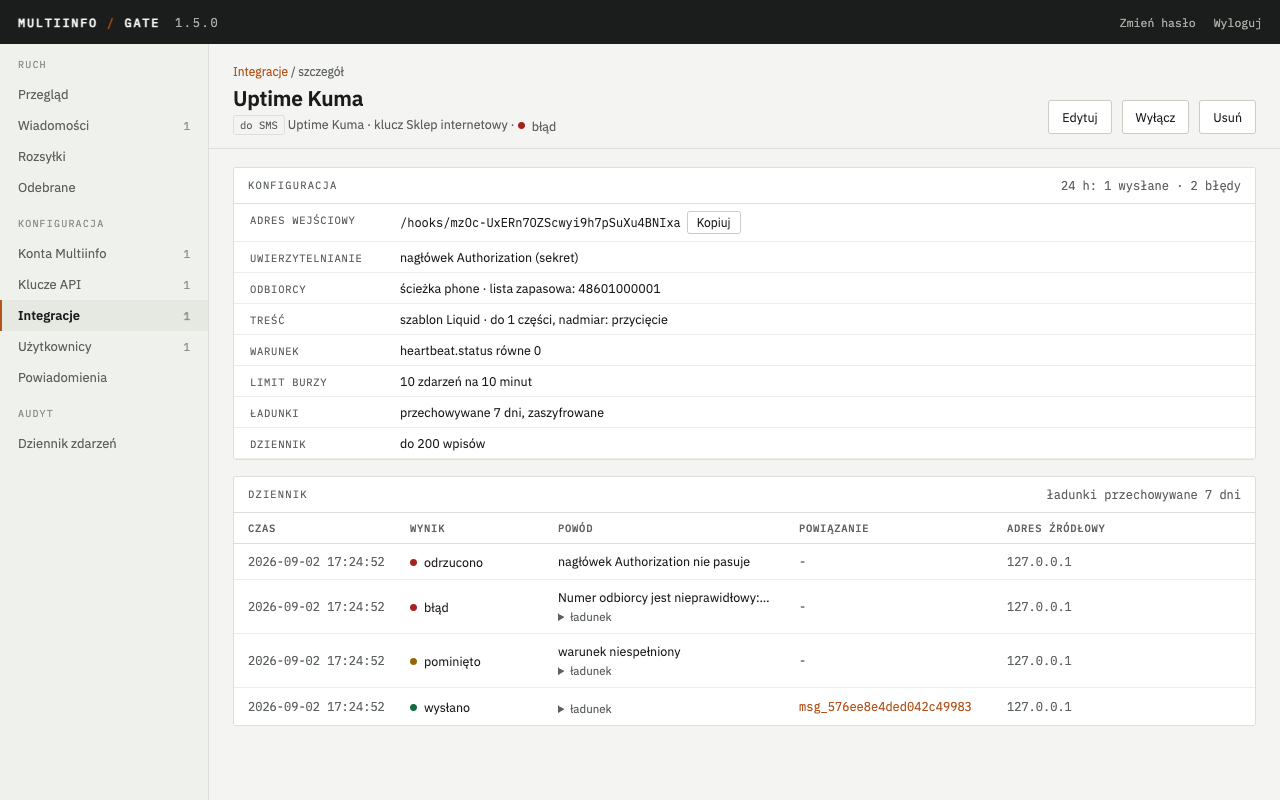
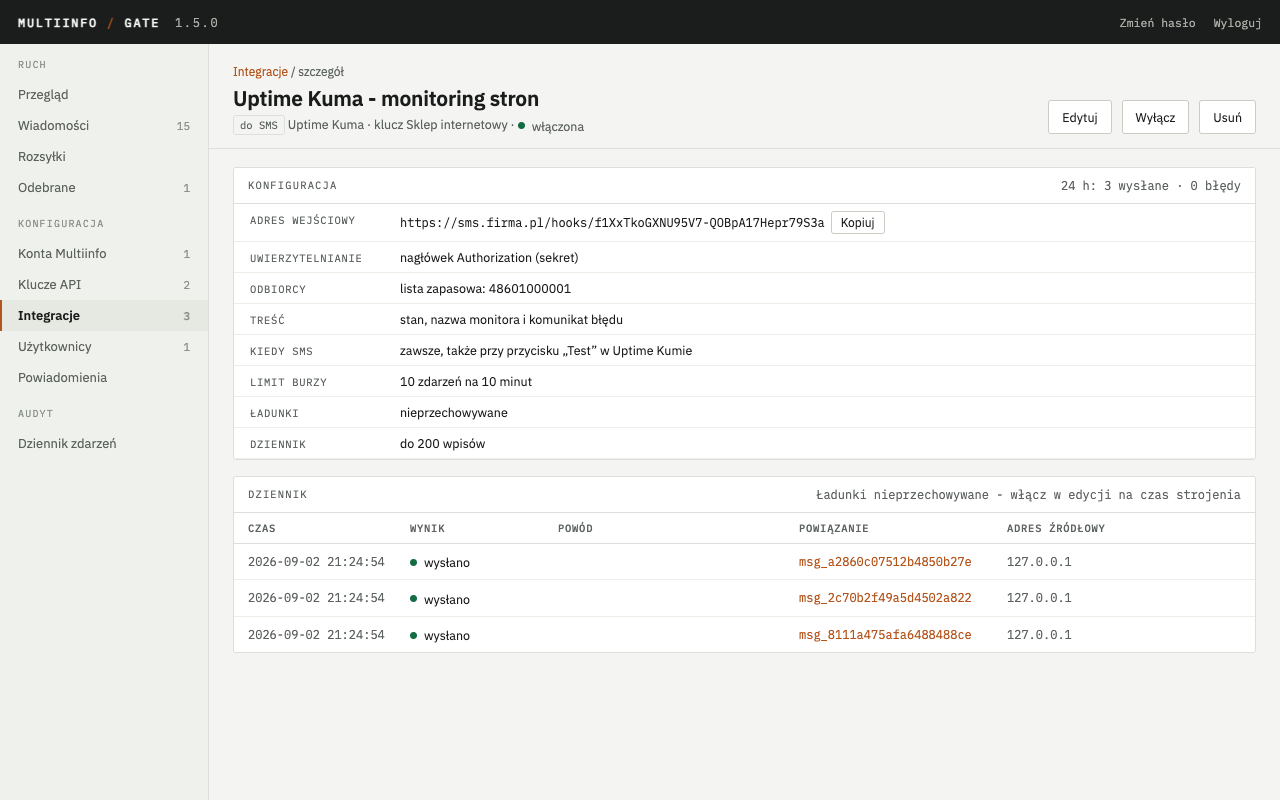
docs(integracje): tryb prosty i adres bramki w rozdziale 2, nowe zrzuty ekranu; instrukcje ustawień tylko po stronie aplikacji; etykiety wyboru w zwykłym kroju

diff --git a/src/admin/views/integration-simple.ts b/src/admin/views/integration-simple.ts
@@ -13,9 +13,9 @@ export interface SimplePageOptions {
   textPreviews: Record<string, string>;
 }
 
-const radio = (name: string, value: string, current: string, label: string, hint = '') =>
+const radio = (name: string, value: string, current: string, label: string, hint = '', mono = false) =>
   `<label class="choice" style="align-items: flex-start;"><input type="radio" name="${esc(name)}" value="${esc(value)}"${current === value ? ' checked' : ''} style="margin-top: 3px;">
-    <span>${esc(label)}${hint === '' ? '' : `<span class="dim" style="display: block; font-size: 11.5px;">${esc(hint)}</span>`}</span></label>`;
+    <span>${mono ? `<span class="m">${esc(label)}</span>` : esc(label)}${hint === '' ? '' : `<span class="dim" style="display: block; font-size: 11.5px; margin-top: 2px;">${esc(hint)}</span>`}</span></label>`;
 
 /** Przełącznik trybu: odnośniki GET, bo zmiana trybu rysuje inny formularz z tych samych zapisanych danych. */
 export function modeSwitch(ctx: FormContext, mode: 'prosty' | 'zaawansowany'): string {
@@ -66,7 +66,7 @@ function inboundSections(ctx: FormContext, sv: SimpleValues, opts: SimplePageOpt
       <div class="hint">${esc(simple.recipients.note)} Jeden numer na linię; dziewięć cyfr dostaje kod kraju konta.</div>
     </div>`;
   const when = simple.when.map((w) => radio('whenId', w.id, sv.whenId, w.label)).join('');
-  const texts = simple.text.map((t) => radio('textId', t.id, sv.textId, opts.textPreviews[t.id] ?? '', t.label)).join('');
+  const texts = simple.text.map((t) => radio('textId', t.id, sv.textId, opts.textPreviews[t.id] ?? '', t.label, true)).join('');
   const auth = simple.auth.kind === 'none'
     ? `<div class="field"><label>Zabezpieczenie</label><div class="hint" style="margin-top: 0;">${esc(simple.auth.note)}</div></div>`
     : secretField(ctx, simple.auth.label, simple.auth.where);

diff --git a/src/integrations/presets/grafana.ts b/src/integrations/presets/grafana.ts
@@ -64,8 +64,8 @@ export const grafana: Preset = {
     },
   },
   guide: [
-    'W Grafanie **Alerting → Contact points → Add contact point**, integracja **Webhook**. **URL** to adres wejściowy integracji, **HTTP Method** `POST`, **Basic Authentication** z loginem `grafana` i hasłem z bramki. Numer odbiorcy wpisz w bramce w liście zapasowej.',
+    'W Grafanie **Alerting → Contact points → Add contact point**, integracja **Webhook**. **URL** to adres wejściowy integracji, **HTTP Method** `POST`, **Basic Authentication** z loginem `grafana` i hasłem z bramki. Potem przypisz punkt kontaktu w **Notification policies** (polityka domyślna albo osobna dla wybranych alertów).',
     '',
-    'Grafana wysyła jedno żądanie na grupę alertów; szablon wypisuje do trzech nazw i liczbę pozostałych. Klucz grupy (`groupKey`) jest stały dla grupy, więc nie nadaje się na identyfikator zdarzenia - bramka nie odrzucałaby powtórek, tylko każdy kolejny alert tej grupy. SMS o alarmie przychodzi po czasie **Group wait** polityki powiadomień (domyślnie 30 s), o powrocie po **Group interval** (domyślnie 5 min). Żeby dostawać SMS tylko o alarmie, dodaj warunek `status równe firing`.',
+    'Grafana wysyła jedno żądanie na grupę alertów; SMS wymienia do trzech nazw i liczbę pozostałych. SMS o alarmie przychodzi po czasie **Group wait** polityki powiadomień (domyślnie 30 s), o powrocie po **Group interval** (domyślnie 5 min) - oba czasy można skrócić w polityce.',
   ].join('\n'),
 };

diff --git a/src/integrations/presets/freescout-zgloszenie.ts b/src/integrations/presets/freescout-zgloszenie.ts
@@ -57,10 +57,8 @@ export const freescoutZgloszenie: Preset = {
     },
   },
   guide: [
-    'We FreeScoucie **Zarządzaj → API & Webhooks → Webhooks → Dodaj**: URL to adres wejściowy integracji, zdarzenia `convo.created` (nowa rozmowa) i `convo.customer.reply.created` (odpowiedź klienta), skrzynki wszystkie albo wybrane. Numery agentów wpisz w bramce w liście zapasowej - FreeScout nie wie, kogo budzić. Szablon rozróżnia oba zdarzenia po liczbie wątków.',
+    'We FreeScoucie **Zarządzaj → API & Webhooks → Webhooks → Dodaj**: URL to adres wejściowy integracji, zdarzenia `convo.created` (nowa rozmowa) i `convo.customer.reply.created` (odpowiedź klienta). Żeby SMS szedł tylko z jednej skrzynki, zaznacz ją w polu skrzynek webhooka.',
     '',
-    'Żeby SMS szedł tylko z jednej skrzynki, dodaj warunek `mailboxId równe <numer>` (numer skrzynki widać w adresie jej ustawień). Rozmowy zakładane przez bramkę z SMS-ów (ustawienie „FreeScout: zgłoszenie z SMS-a”) też wywołują `convo.created`, więc agent dostaje SMS o SMS-ie.',
-    '',
-    'FreeScout nie ma pola na nagłówki - zamiast tokenu wpisz w bramce listę źródeł z adresem serwera FreeScouta.',
+    'Rozmowy zakładane przez bramkę z SMS-ów (ustawienie „FreeScout: zgłoszenie z SMS-a”) też wywołują `convo.created`, więc agent dostaje SMS o SMS-ie. FreeScout nie ma pola na hasło ani nagłówki - chroni sekret w adresie wejściowym.',
   ].join('\n'),
 };

diff --git a/src/integrations/presets/zabbix.ts b/src/integrations/presets/zabbix.ts
@@ -60,6 +60,6 @@ export const zabbix: Preset = {
     'return \'OK\';',
     '```',
     '',
-    'Przy użytkowniku ustaw medium tego typu z numerem w polu **Send to**, a w akcji (**Alerts → Actions → Trigger actions**) operację i operację przywracania z tym typem mediów. Skrypt skleja identyfikator zdarzenia ze statusem, bo Zabbix nadaje rozwiązaniu ten sam `{EVENT.ID}` co problemowi: ponowienie tej samej wysyłki bramka odrzuca jako powtórkę, a SMS o rozwiązaniu przechodzi. Żeby nie dostawać SMS-a o rozwiązaniu, dodaj warunek `status równe PROBLEM`.',
+    'Przy użytkowniku ustaw medium tego typu z numerem w polu **Send to**, a w akcji (**Alerts → Actions → Trigger actions**) operację i operację przywracania z tym typem mediów. Skrypt skleja identyfikator zdarzenia ze statusem, bo Zabbix nadaje rozwiązaniu ten sam `{EVENT.ID}` co problemowi: ponowienie tej samej wysyłki bramka odrzuca jako powtórkę, a SMS o rozwiązaniu przechodzi.',
   ].join('\n'),
 };

diff --git a/src/admin/simple-form.ts b/src/admin/simple-form.ts
@@ -29,9 +29,10 @@ export function simpleValuesFromBody(body: Body, preset: Preset): SimpleValues {
 }
 
 /** Wartości początkowe trybu prostego: pierwszy wariant każdej listy, numery i sekrety puste. */
-export function simpleDefaults(preset: Preset, base: IntegrationFormValues): SimpleValues {
+export function simpleDefaults(preset: Preset, base: IntegrationFormValues, fresh = false): SimpleValues {
   const inbound = preset.simple?.inbound;
-  const detected = detectSimple(preset, 'webhook_in', base);
+  // Nowa integracja zaczyna od pierwszych wariantów; edycja od tych, które siedzą w zapisanej konfiguracji.
+  const detected = fresh ? null : detectSimple(preset, 'webhook_in', base);
   return {
     name: base.name, apiKeyId: base.apiKeyId, enabled: base.enabled,
     numbers: base.toFallback, whenId: detected?.whenId ?? inbound?.when[0]?.id ?? '', textId: detected?.textId ?? inbound?.text[0]?.id ?? '', secret: '',

diff --git a/src/integrations/presets/uptime-kuma.ts b/src/integrations/presets/uptime-kuma.ts
@@ -62,6 +62,6 @@ export const uptimeKuma: Preset = {
     '- **Request Body**: `application/json`',
     '- **Additional Headers**: `{ "Authorization": "Bearer <token>" }` z tokenem, który wpisałeś w bramce',
     '',
-    'Numer odbiorcy wpisz w bramce w liście zapasowej - Uptime Kuma nie przesyła numerów. Żeby SMS szedł tylko przy awarii, dodaj warunek `heartbeat.status równe 0`; bez warunku przyjdzie też SMS o powrocie (`OK: …`) i SMS z przycisku „Test” w Uptime Kumie (ten ładunek nie ma `heartbeat`, szablon wysyła wtedy samo `msg`).',
+    'Zapisz powiadomienie i włącz je przy monitorach, które mają budzić SMS-em (edycja monitora, sekcja Powiadomienia), albo zaznacz „Domyślnie włączone” dla nowych monitorów. Przycisk „Test” w Uptime Kumie wysyła próbny ładunek bez danych monitora - bramka przyjmuje go tylko przy wariancie „zawsze”.',
   ].join('\n'),
 };

diff --git a/src/integrations/presets/prosty-json.ts b/src/integrations/presets/prosty-json.ts
@@ -36,7 +36,7 @@ export const prostyJson: Preset = {
     outboundJson: { event: 'message.received', at: '2026-09-02T10:00:00.000Z', id: 'in_1', serviceId: '24138', from: '48601000001', to: '7968', kind: 'text', text: 'Pomocy, nie działa', receivedAt: '2026-09-02T10:00:00.000Z', relatedMessageId: null },
   },
   guide: [
-    '**Do SMS.** Aplikacja wysyła `POST` na adres wejściowy z nagłówkiem `Content-Type: application/json` i ładunkiem:',
+    '**Do SMS.** Aplikacja wysyła `POST` na adres wejściowy z nagłówkami `Content-Type: application/json` i `Authorization: Bearer <hasło z bramki>` oraz ładunkiem:',
     '',
     '```json',
     '{ "to": "48601000001", "text": "Treść wiadomości" }',

diff --git a/src/integrations/presets/freshdesk-zgloszenie.ts b/src/integrations/presets/freshdesk-zgloszenie.ts
@@ -57,6 +57,6 @@ export const freshdeskZgloszenie: Preset = {
     '{ "event": "odpowiedz", "ticket_id": "{{ticket.id}}", "subject": "{{ticket.subject}}", "phone": "{{ticket.contact.phone}}", "mobile": "{{ticket.contact.mobile}}", "text": "{{ticket.latest_public_comment}}" }',
     '```',
     '',
-    'Numery agentów wpisz w bramce w liście zapasowej. Freshdesk nie ma pola na nagłówki, a żądania przychodzą z różnych adresów chmury AWS, więc uwierzytelnieniem zostaje sekret w adresie i limit burzy.',
+    'Freshdesk nie ma pola na hasło ani nagłówki, a żądania przychodzą z różnych adresów chmury - chroni sekret w adresie wejściowym i limit burzy.',
   ].join('\n'),
 };

diff --git a/src/admin/public/style.css b/src/admin/public/style.css
@@ -117,6 +117,7 @@ tr:last-child td { border-bottom: none; }
 .field { display: flex; flex-direction: column; gap: 5px; margin-bottom: 14px; }
 .field label { font-family: 'IBM Plex Mono', monospace; font-size: 10.5px; letter-spacing: 0.07em;
                text-transform: uppercase; color: var(--muted); }
+.field label.choice { font-family: inherit; font-size: 13px; letter-spacing: 0; text-transform: none; color: var(--ink); }
 .field input { font-family: 'IBM Plex Sans', system-ui, sans-serif; font-size: 13px; color: var(--ink);
                background: var(--surface); border: 1px solid var(--edge); border-radius: var(--radius);
                padding: 8px 10px; }

diff --git a/src/admin/routes/integrations.ts b/src/admin/routes/integrations.ts
@@ -280,7 +280,7 @@ export function registerIntegrationRoutes(app: FastifyInstance, deps: AdminDeps,
     const ctx = formContext(rodzaj, preset);
     const values = valuesFromPreset(rodzaj, preset);
     const mode = modeOf(tryb, preset, rodzaj, null);
-    return mode.mode === 'prosty' ? simplePage(request, ctx, simpleDefaults(preset, values)) : advancedPage(request, ctx, values);
+    return mode.mode === 'prosty' ? simplePage(request, ctx, simpleDefaults(preset, values, true)) : advancedPage(request, ctx, values);
   });
 
   app.post<{ Body: Body }>('/integracje', async (request, reply) => {

diff --git a/docs/integracje.md b/docs/integracje.md
@@ -37,16 +37,72 @@ Plakietka przy pozycji w menu liczy integracje z błędem w ostatniej dobie.
 
 ![Lista integracji: nazwa z ustawieniem, kierunek, klucz i konto, stan, ostatnie zdarzenie i liczniki z doby](obrazki/integracje.png)
 
+### 2.1. Adres bramki
+
+Zanim dodasz pierwszą integrację, podaj raz **adres, pod którym aplikacje widzą bramkę** - panel
+prosi o niego na ekranie **Klucze API** (i na liście integracji, dopóki go nie ma). To ten sam
+adres, który aplikacje wpisują przed `/v1/messages`: przy bramce pod domeną `https://sms.firma.pl`,
+przy kontenerze na Proxmoksie dostępnym w sieci firmowej `http://10.10.10.159:8080` (adres
+kontenera i port API). Bez ścieżki na końcu. Od tej chwili panel pokazuje przy każdym kluczu gotowe
+wywołanie do wklejenia w terminalu, a przy każdej integracji pełny adres wejściowy zamiast samej
+ścieżki `/hooks/…`. Rozdział 3.1 opisuje, jaki adres wpisać zależnie od tego, jak bramka stoi.
+
+### 2.2. Trzy kroki
+
 Przycisk **Dodaj integrację** prowadzi przez trzy kroki:
 
 1. Kierunek: „Aplikacja wysyła SMS” albo „SMS albo status trafia do aplikacji”.
-2. Gotowe ustawienie: kafelek z nazwą aplikacji (rozdział 6) albo „Własne” z pustym formularzem.
-   Ustawienie tylko wypełnia formularz; po zapisie nie ma z nim sprzężenia i wszystko da się
-   zmienić.
-3. Formularz w sekcjach: podstawy (nazwa, klucz, usługa, nadawca, włączona), wejście albo wyjście,
-   warunek, odbiorca, treść albo żądanie, ochrona i dziennik, próbka.
+2. Gotowe ustawienie: kafelek z nazwą aplikacji (rozdział 6) albo „Własne” dla aplikacji spoza
+   listy.
+3. Formularz. Gotowe ustawienie otwiera się w **trybie prostym**; „Własne” od razu
+   w **zaawansowanym**. Przełącznik nad formularzem zmienia tryb w każdej chwili.
 
-![Formularz integracji z ustawienia Uptime Kuma: klucz, nagłówek z tokenem, warunek, lista zapasowa numerów i szablon treści z listą pól ładunku](obrazki/integracja-formularz.png)
+### 2.3. Tryb prosty
+
+Tryb prosty nie wymaga znajomości ładunku aplikacji ani szablonów. Formularz ma pięć punktów,
+każdy jest decyzją użytkownika w jego języku:
+
+1. **Nazwa i konto** - nazwa integracji i klucz API (SMS-y idą z konta Multiinfo tego klucza).
+2. **Kto ma dostać SMS** - numery telefonów, jeden na linię. Gdy aplikacja sama przesyła numer
+   (Zabbix, Prosty JSON), pole nazywa się „Numery zapasowe” i zdanie pod nim mówi, skąd numer
+   przychodzi.
+3. **Kiedy wysyłać SMS** - lista wariantów przygotowanych dla tej aplikacji, np. w Uptime Kumie
+   „tylko gdy monitor przestanie działać”, „gdy przestanie działać i gdy wróci”, „zawsze, także
+   przy przycisku Test”.
+4. **Co ma być w SMS-ie** - dwa warianty treści pokazane jako gotowy SMS obliczony z prawdziwego
+   ładunku tej aplikacji (np. „AWARIA: Strona firmowa - Request failed with status code 403”),
+   nie jako szablon.
+5. **Zabezpieczenie** - jedno, które dana aplikacja obsługuje: hasło do wpisania też po stronie
+   aplikacji (przycisk **Wygeneruj** losuje bezpieczne), a przy aplikacjach bez takiego pola
+   (FreeScout, Freshdesk) zdanie, co chroni adres zamiast hasła.
+
+![Formularz Uptime Kumy w trybie prostym: numery, kiedy wysyłać, dwa warianty treści jako gotowe SMS-y, hasło z przyciskiem Wygeneruj](obrazki/integracja-formularz.png)
+
+Integracja z SMS-a w trybie prostym ma nazwę i konto, adres aplikacji z podpowiedzią, co tam
+wpisać (np. „adres Twojego FreeScouta z końcówką /api/conversations”), parametry aplikacji (numer
+skrzynki we FreeScoucie) i dostęp do aplikacji (klucz API; przy Freshdesku bramka sama zamienia
+klucz na wymagany nagłówek).
+
+Po zapisaniu panel pokazuje raz ramkę z **pełnym adresem do wklejenia**, zdaniem, gdzie go wkleić
+(np. „w Uptime Kumie w polu Post URL powiadomienia typu Webhook”), i instrukcją krok po kroku dla
+tej aplikacji.
+
+![Ramka po zapisaniu: pełny adres wejściowy, gdzie go wkleić i instrukcja krok po kroku](obrazki/integracja-adres.png)
+
+Tryb prosty zapisuje dokładnie tę samą konfigurację, którą pokazuje tryb zaawansowany: wybrany
+wariant „kiedy” to warunek, wariant treści to szablon, hasło to nagłówek albo basic auth. Dopóki
+konfiguracja mieści się w listach ustawienia, edycja otwiera tryb prosty z zaznaczonymi wyborami.
+Gdy ktoś w trybie zaawansowanym wpisze własny szablon albo warunek, edycja otwiera się
+w zaawansowanym z jednym zdaniem dlaczego, a szczegół integracji pokazuje warunek i szablon zamiast
+słów z list.
+
+### 2.4. Tryb zaawansowany
+
+Tryb zaawansowany pokazuje pola silnika w sekcjach: podstawy (nazwa, klucz, usługa, nadawca,
+włączona), wejście albo wyjście (uwierzytelnianie, lista źródeł; adres, metoda, nagłówki,
+zdarzenia), warunek (reguły albo wyrażenie Liquid), odbiorca (ścieżki numeru i identyfikatorów,
+lista zapasowa), treść albo żądanie (szablon Liquid albo pole z ładunku; body), ochrona
+i dziennik, próbka. Rozdziały 3 i 4 opisują każde pole, rozdział 5 język szablonów.
 
 Pod formularzem są dwa przyciski. **Sprawdź szablon** nie zapisuje niczego i nie wysyła SMS-a:
 bierze próbkę ładunku z pola na dole (z ustawienia albo z dziennika) i pokazuje wynik warunku,
@@ -54,15 +110,15 @@ odbiorców po normalizacji, treść i liczbę części, a dla integracji z SMS-a
 zamaskowane) i body. **Utwórz integrację** zapisuje; zapis wymaga poprawnego szablonu i warunku,
 a błąd składni Liquida wraca jako komunikat z numerem linii i kolumny.
 
-![Podgląd „Sprawdź szablon”: warunek spełniony, odbiorcy, treść SMS-a i liczba części](obrazki/integracja-sprawdz.png)
+![Podgląd „Sprawdź szablon” w trybie zaawansowanym: warunek spełniony, odbiorcy, treść SMS-a i liczba części](obrazki/integracja-sprawdz.png)
 
-Po utworzeniu integracji do SMS panel pokazuje raz ramkę z adresem wejściowym i przyciskiem
-„Kopiuj”. Adres widać też w szczególe i na stronie edycji, gdzie jest przycisk **Wygeneruj nowy**:
+Adres wejściowy widać w szczególe i na stronie edycji, gdzie jest przycisk **Wygeneruj nowy**:
 stary adres przestaje działać natychmiast i trzeba go podmienić w aplikacji.
 
-Sekrety (token w nagłówku, hasło basic auth, sekretne nagłówki integracji z SMS-a) zapisują się
-zaszyfrowane kluczem głównym i nie da się ich potem odczytać w panelu. W edycji puste pole sekretu
-zostawia dotychczasowy; żeby zdjąć warstwę, wyczyść nazwę nagłówka albo login.
+Sekrety (hasło z trybu prostego, token w nagłówku, hasło basic auth, sekretne nagłówki
+integracji z SMS-a) zapisują się zaszyfrowane kluczem głównym i nie da się ich potem odczytać
+w panelu. W edycji puste pole sekretu zostawia dotychczasowy; żeby zdjąć warstwę w trybie
+zaawansowanym, wyczyść nazwę nagłówka albo login.
 
 ## 3. Aplikacja wysyła SMS
 
@@ -76,9 +132,9 @@ klucza i ochrony z rozdziału 3.6. Bramka przyjmuje `Content-Type: application/j
 się tablicą). Ładunek do 256 KB; większy dostaje kod 413, niepoprawny JSON kod 400. Inne metody
 niż `POST` dostają 405, nieznany identyfikator i integracja wyłączona 404 bez wpisu w dzienniku.
 
-Panel pokazuje samą ścieżkę `/hooks/<identyfikator>`, bo nie wie, pod jakim adresem aplikacja
-widzi API bramki. Ścieżkę dokleja się do tego adresu, a on zależy od tego, jak bramka stoi
-i skąd woła ją aplikacja:
+Panel pokazuje pełny adres, gdy zna adres bramki (rozdział 2.1); bez niego samą ścieżkę
+`/hooks/<identyfikator>`, którą dokleja się do adresu, pod jakim aplikacja widzi API bramki.
+Ten adres zależy od tego, jak bramka stoi i skąd woła ją aplikacja:
 
 | Jak bramka stoi | Skąd woła aplikacja | Pełny adres do wpisania w aplikacji |
 |---|---|---|
